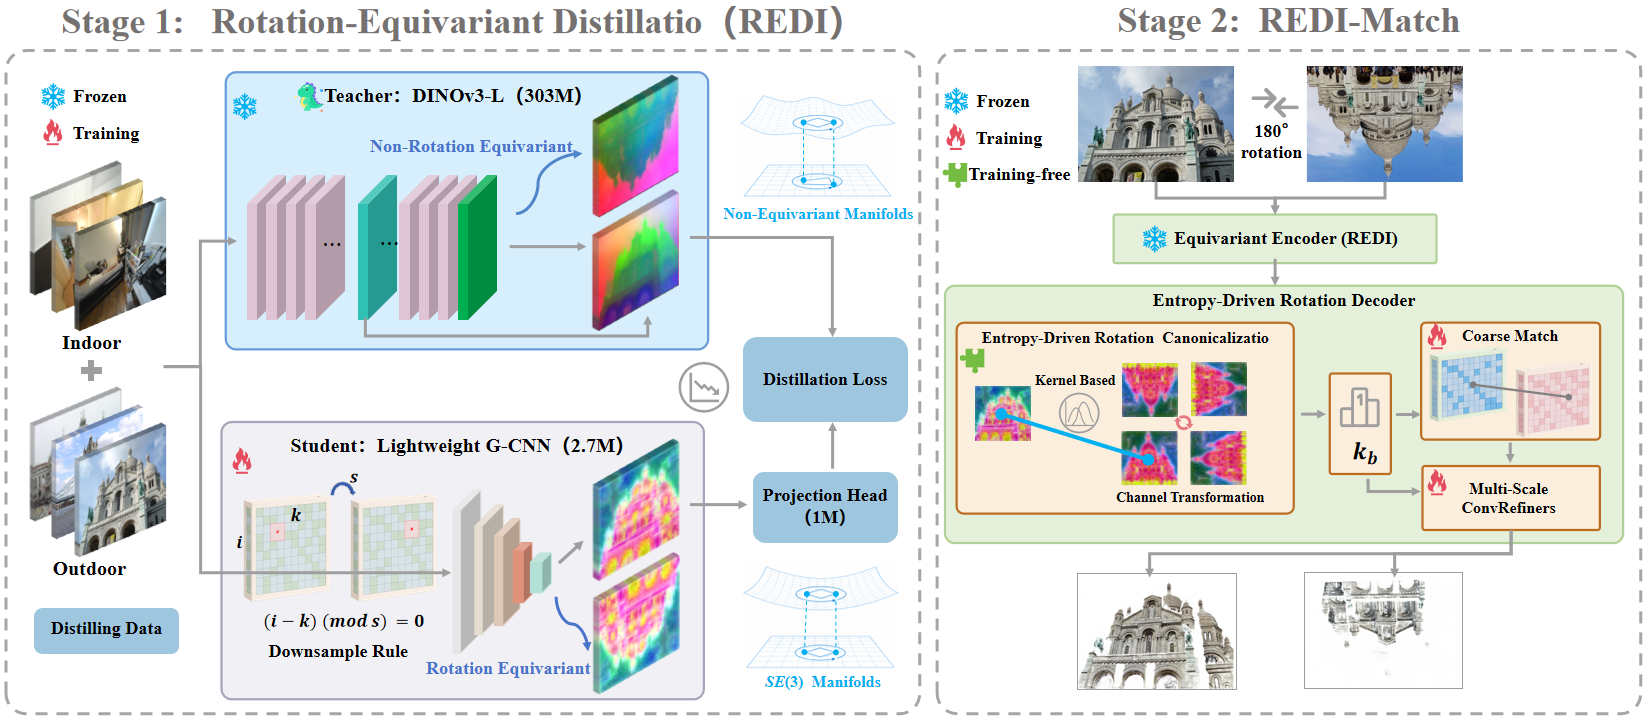
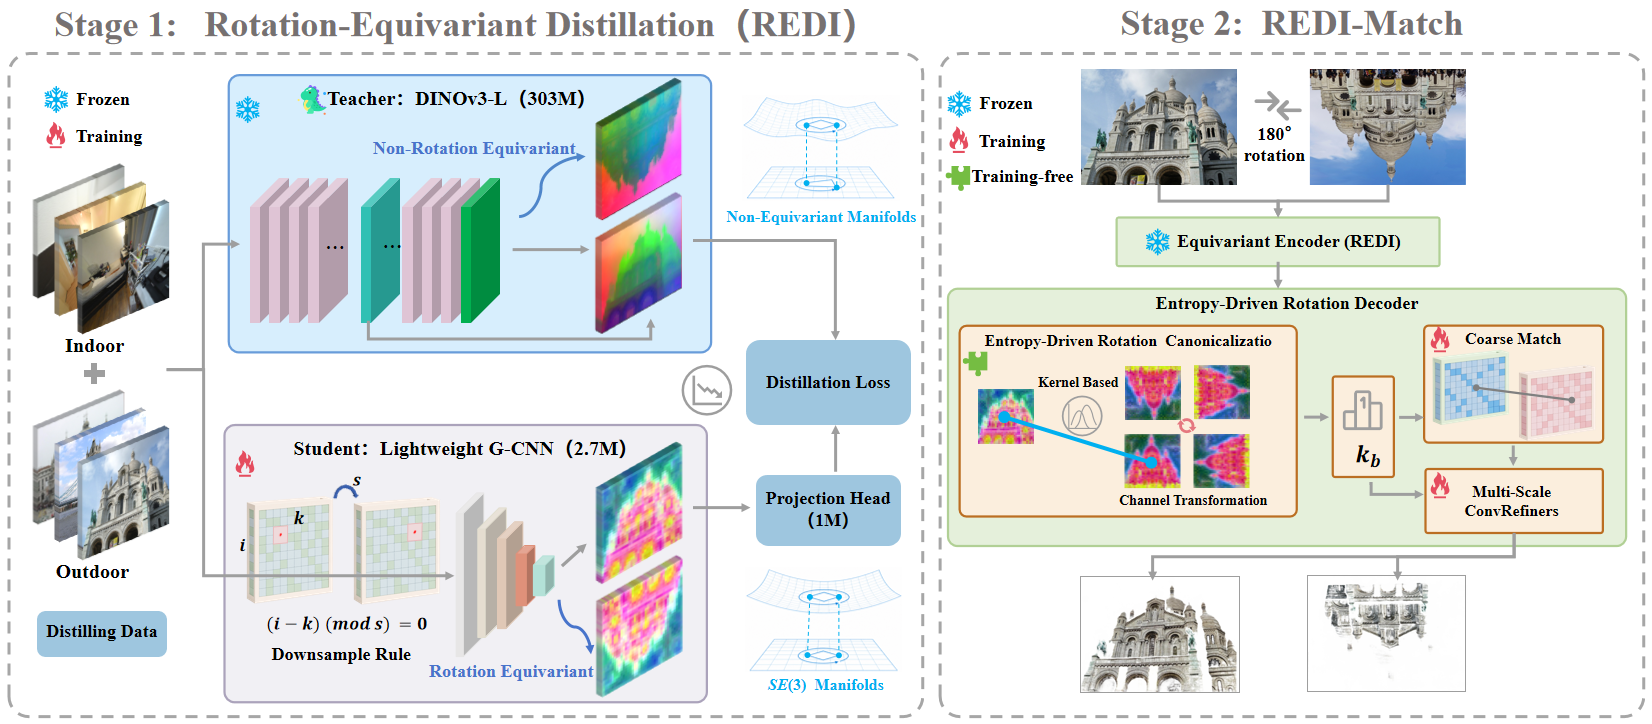
Update README and pipeline figure

Changed region(s): [[0.0, 0.0, 1.0, 1.0], [0.4642, 0.7901, 0.5261, 0.8508], [0.0928, 0.4862, 0.1238, 0.5166]]

diff --git a/README.md b/README.md
@@ -74,7 +74,7 @@ All methods at 576×576, latency on single RTX 4090.
 | DKM | 58.1 | 73.3 | 84.1 | 29.2 | 50.4 | 68.0 | <u>71.3</u> | <u>80.4</u> | 88.4 | 72.3 | 34.3 |
 | RoMa | 59.6 | 74.4 | 84.9 | <u>31.0</u> | <u>52.6</u> | <u>70.2</u> | 70.4 | 79.9 | 88.2 | 415.7 | 78.4 |
 | RoMa v2 | **60.0** | **74.8** | **85.2** | **33.3** | **56.0** | **73.4** | 70.7 | 80.4 | <u>89.0</u> | 425.4 | 45.7 |
-| **REDI-Match** | <u>59.8</u> | <u>74.7</u> | <u>84.9</u> | 30.2 | 51.4 | 68.8 | **72.1** | **81.2** | **89.1** | **94.9** | <u>24.1</u> |
+| **REDI-Match** | <u>59.8</u> | <u>74.7</u> | <u>84.9</u> | 30.2 | 51.4 | 68.8 | **72.1** | **81.2** | **89.1** | **85.4** | <u>24.1</u> |
 
 ### Qualitative Comparison under Severe Rotations
 